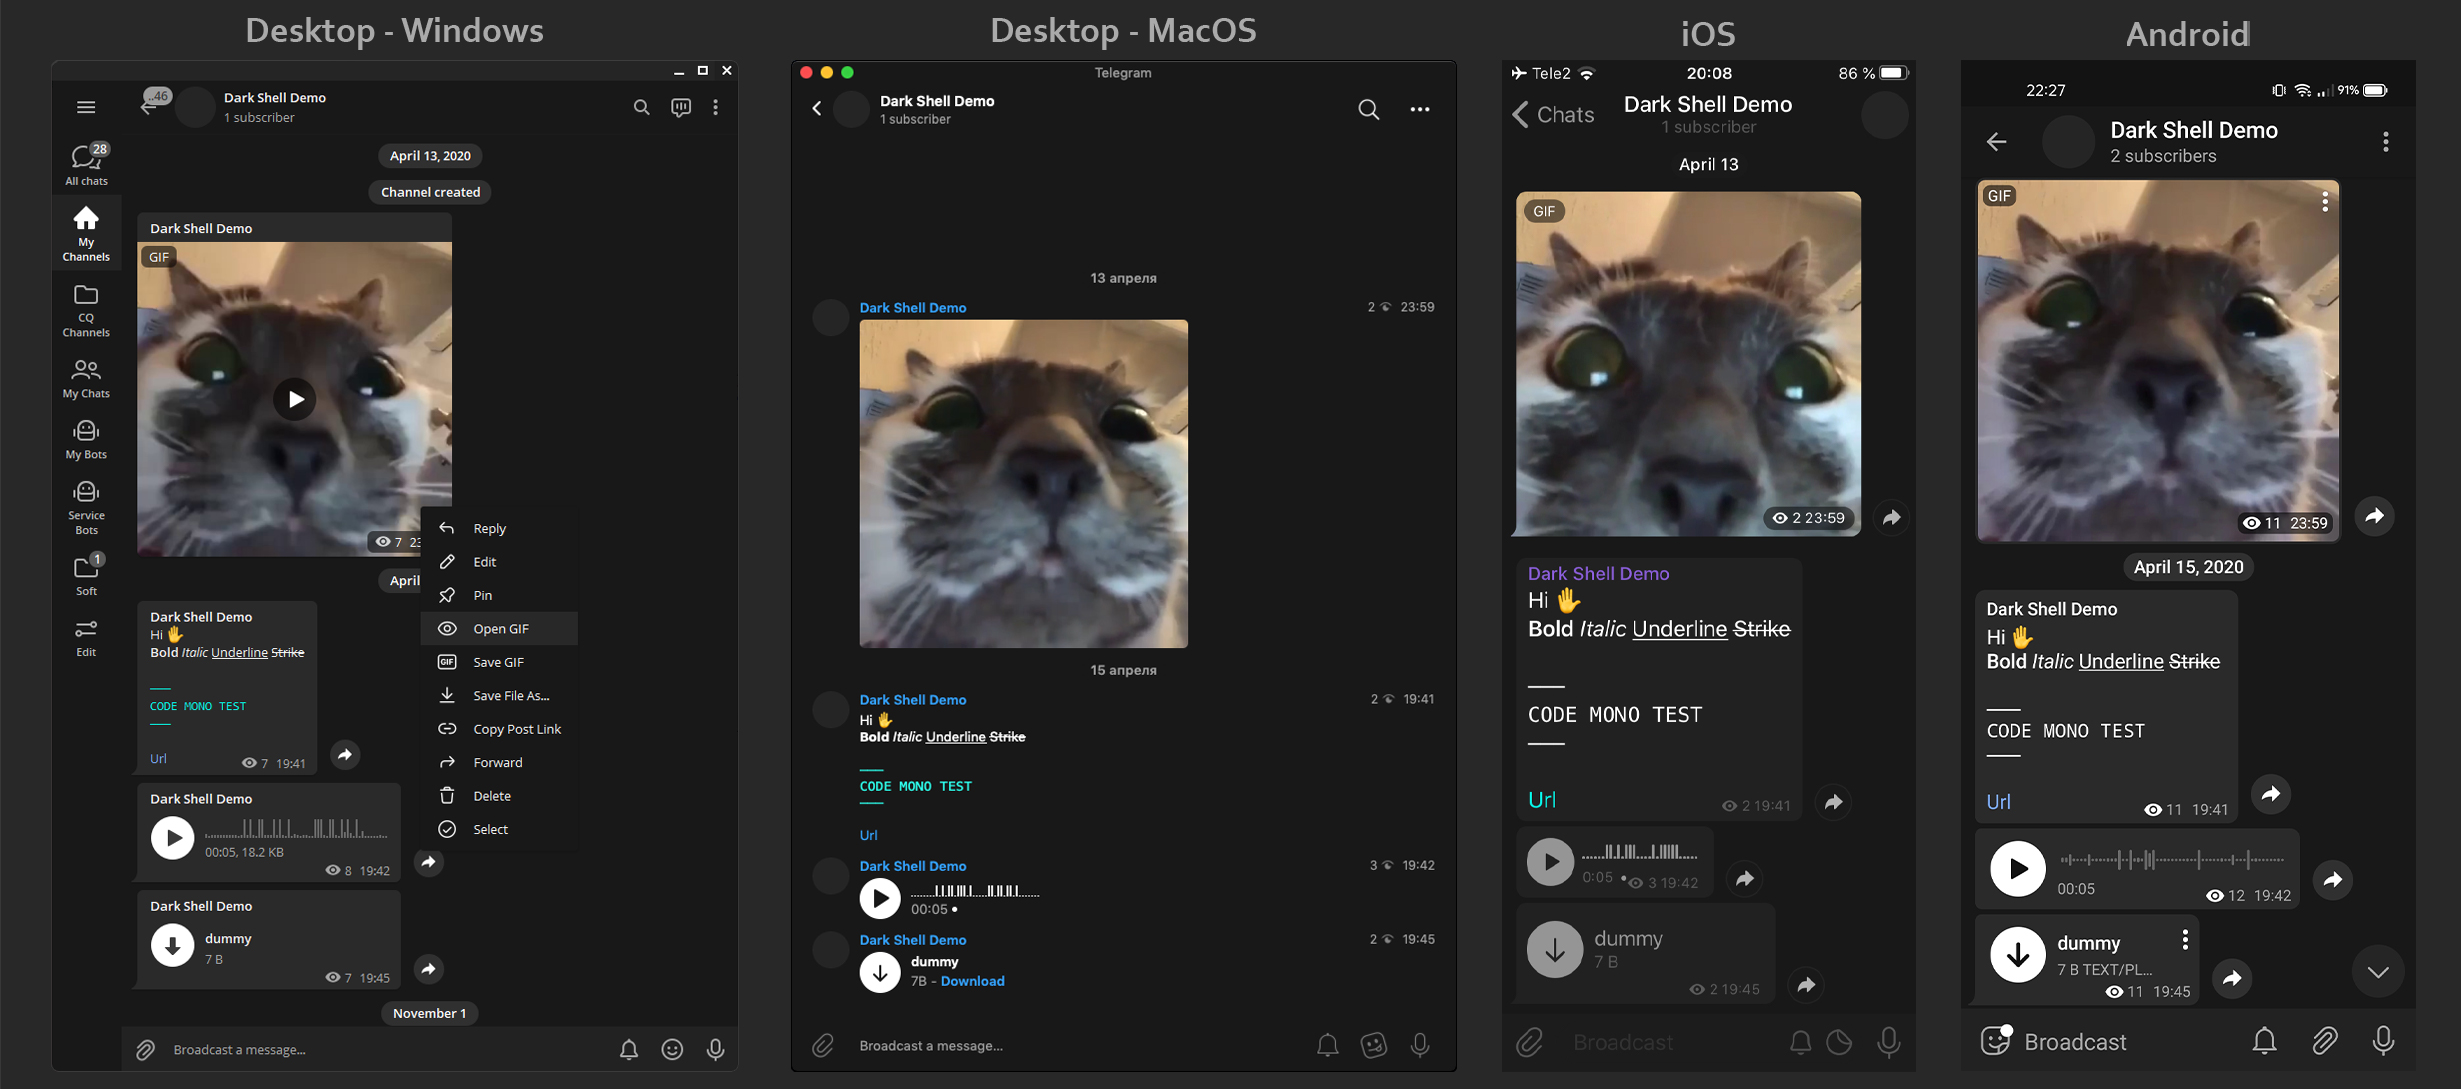
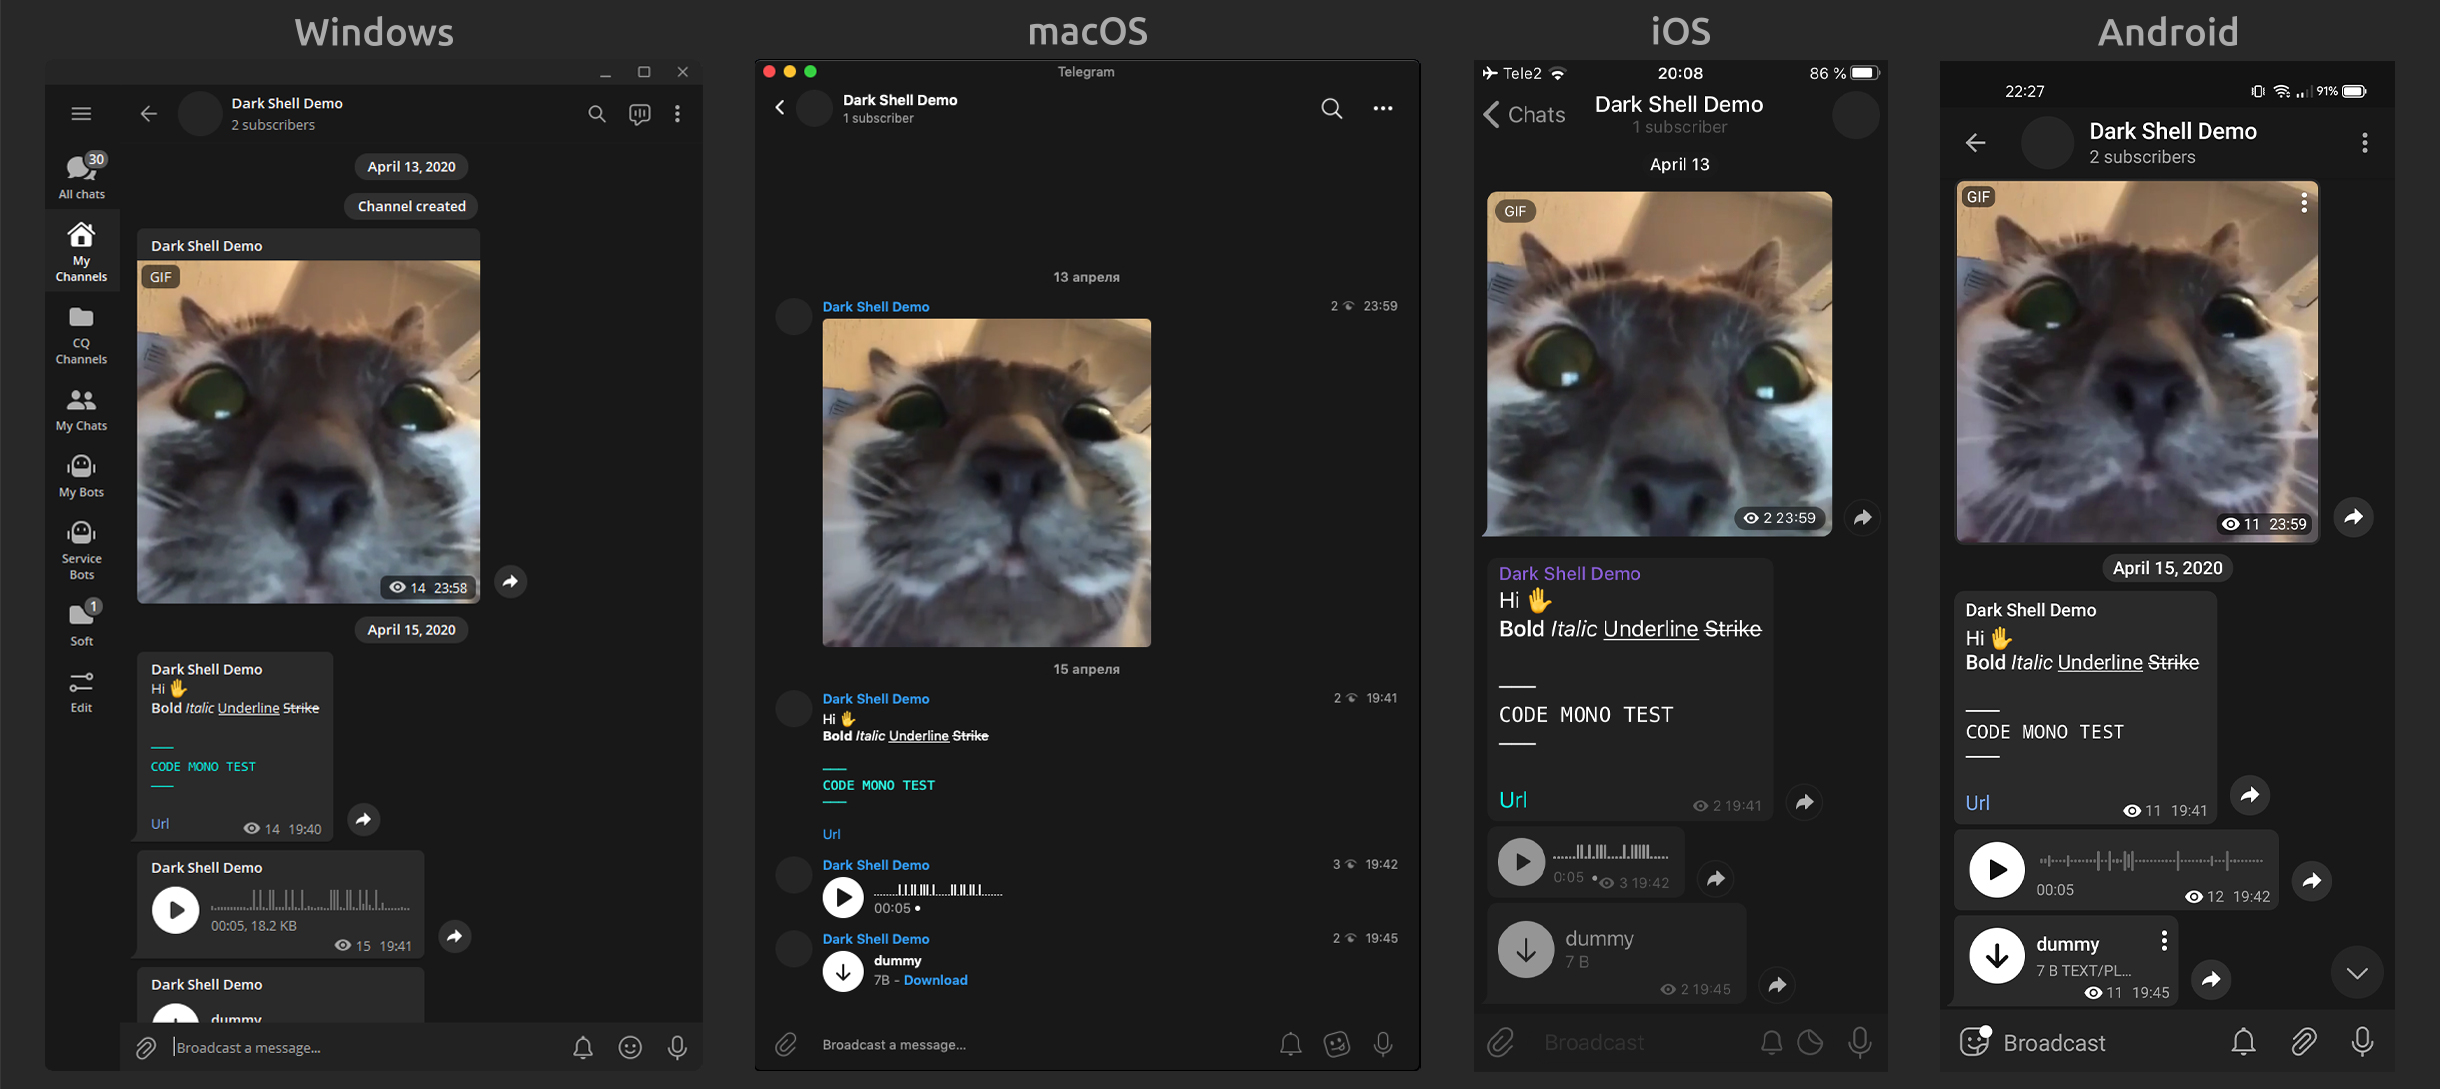
Screenshot update, `README` refactored
Also enhaned the *release checklist* and bumped `tdesktop` version to 1.2

diff --git a/README.md b/README.md
@@ -8,53 +8,81 @@
     <img src=".github/preview.jpg">
 </p>
 
+# Table Of Contents
+- [Main Information](#main-information)
+- [Installation](#installation)
+  - [Universal](#universal)
+  - [Manual Install](#manual-install)
+  - [Download specific version](#download-specific-version)
+- [Development Status](#development-status)
+
+
 # Main Information
 - **Dark Shell** is a minimalistic dark mode theme for Telegram clients on Windows, Linux, macOS, iOS, Android.
 - This repository contains all source files and releases for this theme.
 
+
 # Installation
-## [**Click to install**][telegram-theme-shared-link] this theme on any supported device *([devices list](./README.md#Development-Status))*
+## Universal
+- [**Click to install** ☁][telegram-theme-shared-link] this theme on any supported device with cloud syncronization support *([devices list](./README.md#Development-Status))*
+> All new stable features and changes will be delivered much faster and will not be bound to releases
 
-## Or install it manually
-- **Windows / Linux** *(Manual Install)* :
-  1. [Download The Latest Release][tdesktop-latest-release] or select version from [Versions Archive](./VERSIONS_ARCHIVE.md).
-  2. Open Telegram.
-  - *Using messages :*
-	1. Send the downloaded file to `Saved messages`.
-	2. Click on sent file and press `APPLY THIS THEME` button.
-  - *Using settings :*
-	1. Go to **Settings** -> **Chat Settings**.
-	2. Press <img src=".github/setup_guide/icon_openVerticalMenu.png" width=15> -> `Create new theme` -> `IMPORT EXISTING THEME`.
-	3. Find and choose downloaded `.tdesktop-theme` file.
-- **macOS** *(Manual Install)* :
-  1. [Download The Latest Release][macOS-latest-release] or select version from [Versions Archive](./VERSIONS_ARCHIVE.md).
-  2. Open Telegram and go to `Settings` -> `Appearance`.
-  3. Press <img src=".github/setup_guide/icon_openHorizontalMenu.png" width=15> in upper-right corner of app and press `New theme`.
-  4. Name it **Dark Shell** *(Or how you want to)* and press `Create`.<br>You'll be asked to save the theme file. Save it anywhere *(You can delete this file after that)*.
-  5. <kbd>RMB</kbd> click on created theme and click `Edit` -> `Update from file`
-  6. Find and choose downloaded `.palette` file.
-- **iOS** *(Manual Install)* :
-  1. [Download The Latest Release][iOS-latest-release] or select version from [Versions Archive](./VERSIONS_ARCHIVE.md).
-  2. Send the downloaded file to `Saved messages`.
-  3. Click on it.
-  4. Press the `Set` button in bottom-right corner of the screen.
-- **Android** *(Manual Install)* :
-  1. [Download The Latest Release][android-latest-release] or select version from [Versions Archive](./VERSIONS_ARCHIVE.md).
-  2. Send the downloaded file to `Saved messages`.
-  3. Click on it.
-  4. Press the `Apply` button in bottom-right corner of the screen.
+## Manual Install
 
-	## How to download a specific version
-	If you want to download a specific version of theme <ins>DON'T</ins> search for it in [Releases](https://github.com/maximilionus/Telegram-Dark-Shell/releases). Instead, go to the [Versions Archive](./VERSIONS_ARCHIVE.md) and you'll find a table with all versions and links to them.
+<details><summary><b>&emsp;Windows / Linux</b></summary>
+
+1. [Download The Latest Release][tdesktop-latest-release] or select version from [Versions Archive](./VERSIONS_ARCHIVE.md).
+2. Open Telegram.
+- *Using messages :*
+   1. Send the downloaded file to `Saved messages`.
+   2. Click on sent file and press `APPLY THIS THEME` button.
+- *Using settings :*
+  1. Go to **Settings** -> **Chat Settings**.
+  2. Press <img src=".github/setup_guide/icon_openVerticalMenu.png" width=15> -> `Create new theme` -> `IMPORT EXISTING THEME`.
+  3. Find and choose downloaded `.tdesktop-theme` file.
+
+</details>
+
+<details><summary>&emsp;<b>macOS</b></summary>
+
+1. [Download The Latest Release][macOS-latest-release] or select version from [Versions Archive](./VERSIONS_ARCHIVE.md).
+2. Open Telegram and go to `Settings` -> `Appearance`.
+3. Press <img src=".github/setup_guide/icon_openHorizontalMenu.png" width=15> in upper-right corner of app and press `New theme`.
+4. Name it **Dark Shell** *(Or how you want to)* and press `Create`.<br>You'll be asked to save the theme file. Save it anywhere *(You can delete this file after that)*.
+5. <kbd>RMB</kbd> click on created theme and click `Edit` -> `Update from file`
+6. Find and choose downloaded `.palette` file.
+
+</details>
+
+<details><summary>&emsp;<b>iOS</b></summary>
+
+1. [Download The Latest Release][iOS-latest-release] or select version from [Versions Archive](./VERSIONS_ARCHIVE.md).
+2. Send the downloaded file to `Saved messages`.
+3. Click on it.
+4. Press the `Set` button in bottom-right corner of the screen.
+
+</details>
+
+<details><summary>&emsp;<b>Android</b></summary>
+
+1. [Download The Latest Release][android-latest-release] or select version from [Versions Archive](./VERSIONS_ARCHIVE.md).
+2. Send the downloaded file to `Saved messages`.
+3. Click on it.
+4. Press the `Apply` button in bottom-right corner of the screen.
+
+</details>
+
+## Download specific version
+If you want to download a specific version of theme <ins>DON'T</ins> search for it in [Releases](https://github.com/maximilionus/Telegram-Dark-Shell/releases). Instead, go to the [Versions Archive](./VERSIONS_ARCHIVE.md) and you'll find a table with all versions and links to them.
+
 
 # Development Status
-| **Platform** | **Ready** | **Tested** | **Version** |
-| :----------- | :-------- | :--------- | :---------- |
-| Windows      | yes       | yes        | `1.1`       |
-| Linux        | yes       | yes        | `1.1`       |
-| macOS        | yes       | no         | `1.0`       |
-| iOS          | yes       | yes        | `1.1`       |
-| Android      | yes       | yes        | `2.1`       |
+| **Platform**            | **Ready** | **Tested** | **Version** |
+| :---------------------- | :-------- | :--------- | :---------- |
+| **Windows** / **Linux** | yes       | yes        | `1.2`       |
+| **macOS**               | yes       | no         | `1.0`       |
+| **iOS**                 | yes       | yes        | `1.1`       |
+| **Android**             | yes       | yes        | `2.1`       |
 
 > If you've tested this theme on non-tested platform, please [let me know about it](https://github.com/maximilionus/Telegram-Dark-Shell/issues/new?labels=platform-tested)
 

diff --git a/VERSIONS_ARCHIVE.md b/VERSIONS_ARCHIVE.md
@@ -2,13 +2,14 @@
 
 | **Platforms** →<br>**Versions** ↓ | Windows / Linux           | macOS                  | iOS                  | Android                  |
 | :-------------------------------- | :------------------------ | :--------------------- | :------------------- | :----------------------- |
-| Latest →                          | [↓`1.1`][tdesktop-latest] | [↓`1.0`][macOS-latest] | [↓`1.1`][iOS-latest] | [↓`2.1`][Android-latest] |
-|                                   | [↓`1.0`][tdesktop-1.0]    |                        | [↓`1.0`][iOS-v1.0]   | [↓`2.0`][Android-v2.0]   |
-|                                   |                           |                        |                      | [↓`1.0`][Android-v1.0]   |
+| Latest →                          | [↓`1.2`][tdesktop-latest] | [↓`1.0`][macOS-latest] | [↓`1.1`][iOS-latest] | [↓`2.1`][Android-latest] |
+|                                   | [↓`1.1`][tdesktop-1.1]    |                        | [↓`1.0`][iOS-v1.0]   | [↓`2.0`][Android-v2.0]   |
+|                                   | [↓`1.0`][tdesktop-1.0]    |                        |                      | [↓`1.0`][Android-v1.0]   |
 
 <!-- Telegram Desktop Versions (Windows / Linux) -->
 [tdesktop-latest]: https://github.com/maximilionus/Telegram-Dark-Shell/releases/latest/download/DarkShell.tdesktop-theme (Windows/Linux Latest Release)
-[tdesktop-1.0]: https://github.com/maximilionus/telegram-dark-shell/releases/download/build-190420202035/DarkShell.tdesktop-theme
+[tdesktop-1.0]: https://github.com/maximilionus/telegram-dark-shell/releases/download/build-190420202035/DarkShell.tdesktop-theme (Windows/Linux 1.0 Release)
+[tdesktop-1.1]: https://github.com/maximilionus/telegram-dark-shell/releases/download/release-202202192341/DarkShell.tdesktop-theme (Windows/Linux 1.1 Release)
 <!-- Telegram macOS Versions -->
 [macOS-latest]: https://github.com/maximilionus/Telegram-Dark-Shell/releases/latest/download/DarkShell.palette (macOS Latest Release)
 <!-- Telegram iOS Versions -->

diff --git a/.github/RELEASE_CHECKLIST.md b/.github/RELEASE_CHECKLIST.md
@@ -7,7 +7,9 @@
 2. Update [VERSIONS_ARCHIVE.md](../VERSIONS_ARCHIVE.md) :
    - Change old versions link from `*/releases/latest/download/*` to `*/releases/{tagname}/download/*`
    - Add new version with link to `*/releases/latest/download/*`
-3. Commit and Create new tag. Name sample: `release-ddmmyyyyhhmm`
-4. Push tag to remote and create **release**
-5. Attach <ins>ALL</ins> theme files *(Even if they don't have any changes)* to release to make `*/releases/latest/download/*` work properly
-6. Well done, mate 👏. Give yourself a cookie 🍪.
+3. Add new version to table in [README.md #development-status](../README.md#development-status)
+4. Commit and Create new tag. Name sample: `release-ddmmyyyyhhmm`
+5. Push tag to remote and create **release**
+6. ~~Attach <ins>ALL</ins> theme files *(Even if they don't have any changes)* to release to make `*/releases/latest/download/*` work properly~~
+    > Files are now automatically attached to release with Github Actions
+7. Well done, mate 👏. Give yourself a cookie 🍪. I **DO** hope everything is working fine and no fixes are needed 🥵.

diff --git a/CHANGELOG.md b/CHANGELOG.md
@@ -10,6 +10,12 @@
 #### Fixed
 - Title buttons color for inactive state now more consistent with title bar
 
+### Global Changes
+#### Changed
+- Preview screenshot updated
+  - Reflect current state
+  - Fonts changed
+
 
 ## Update 2022.02.19
 ### Android v2.1 Release
